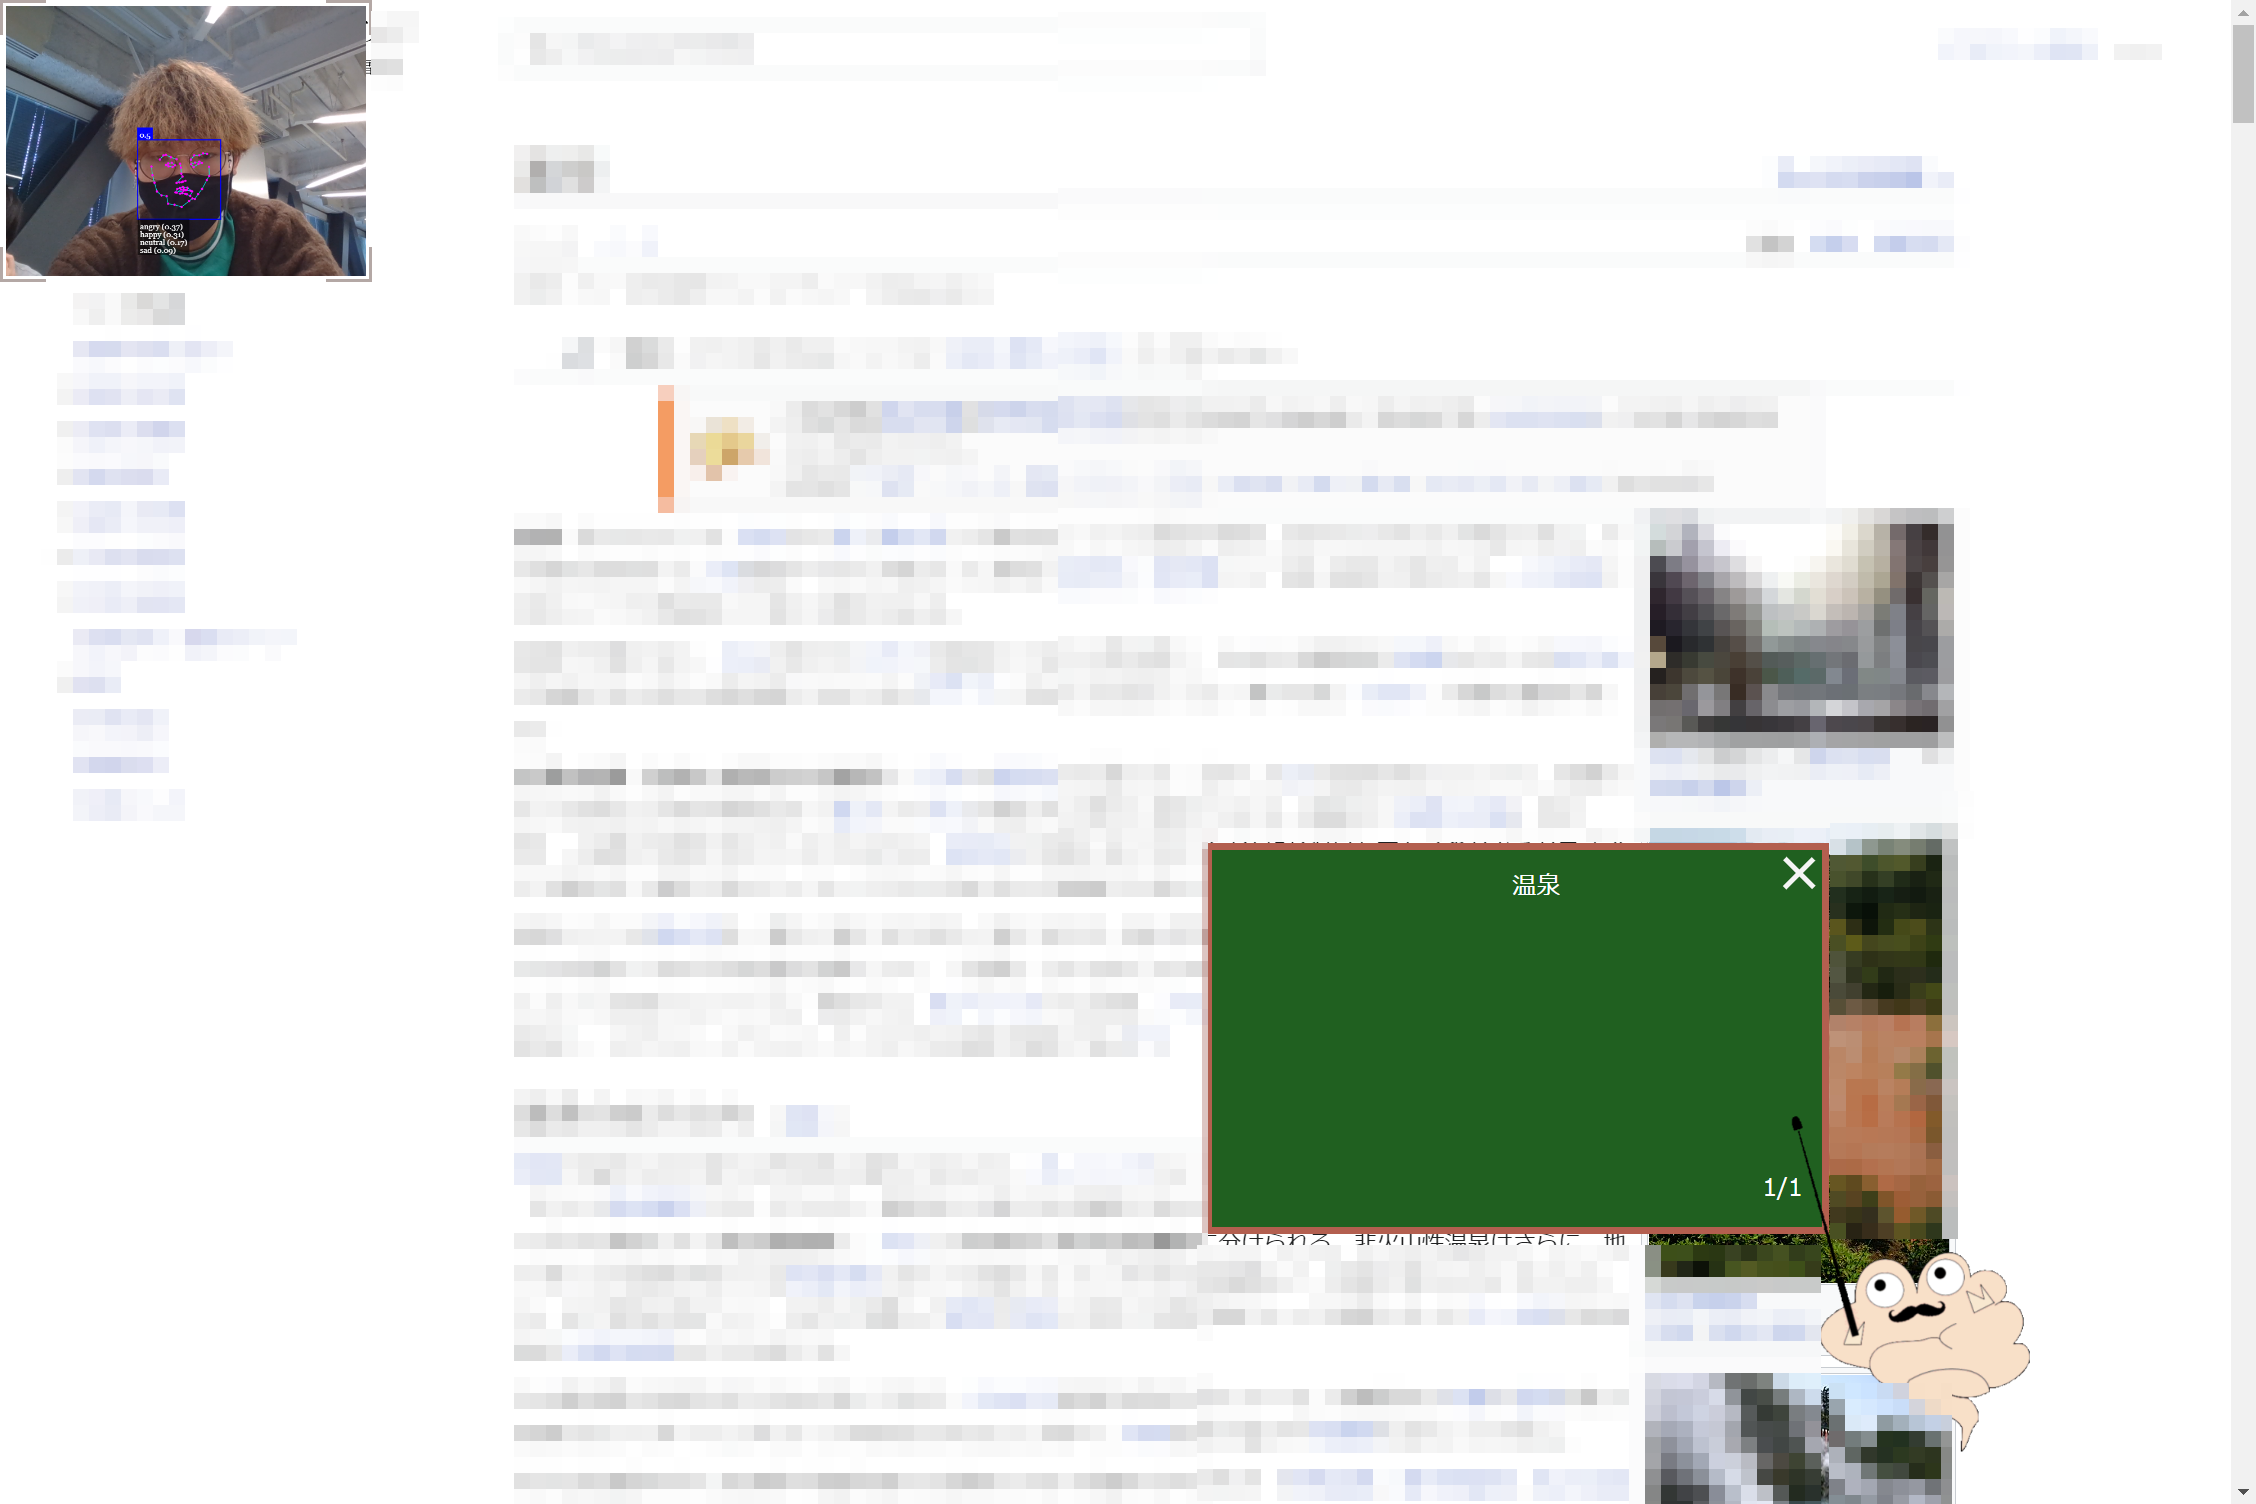
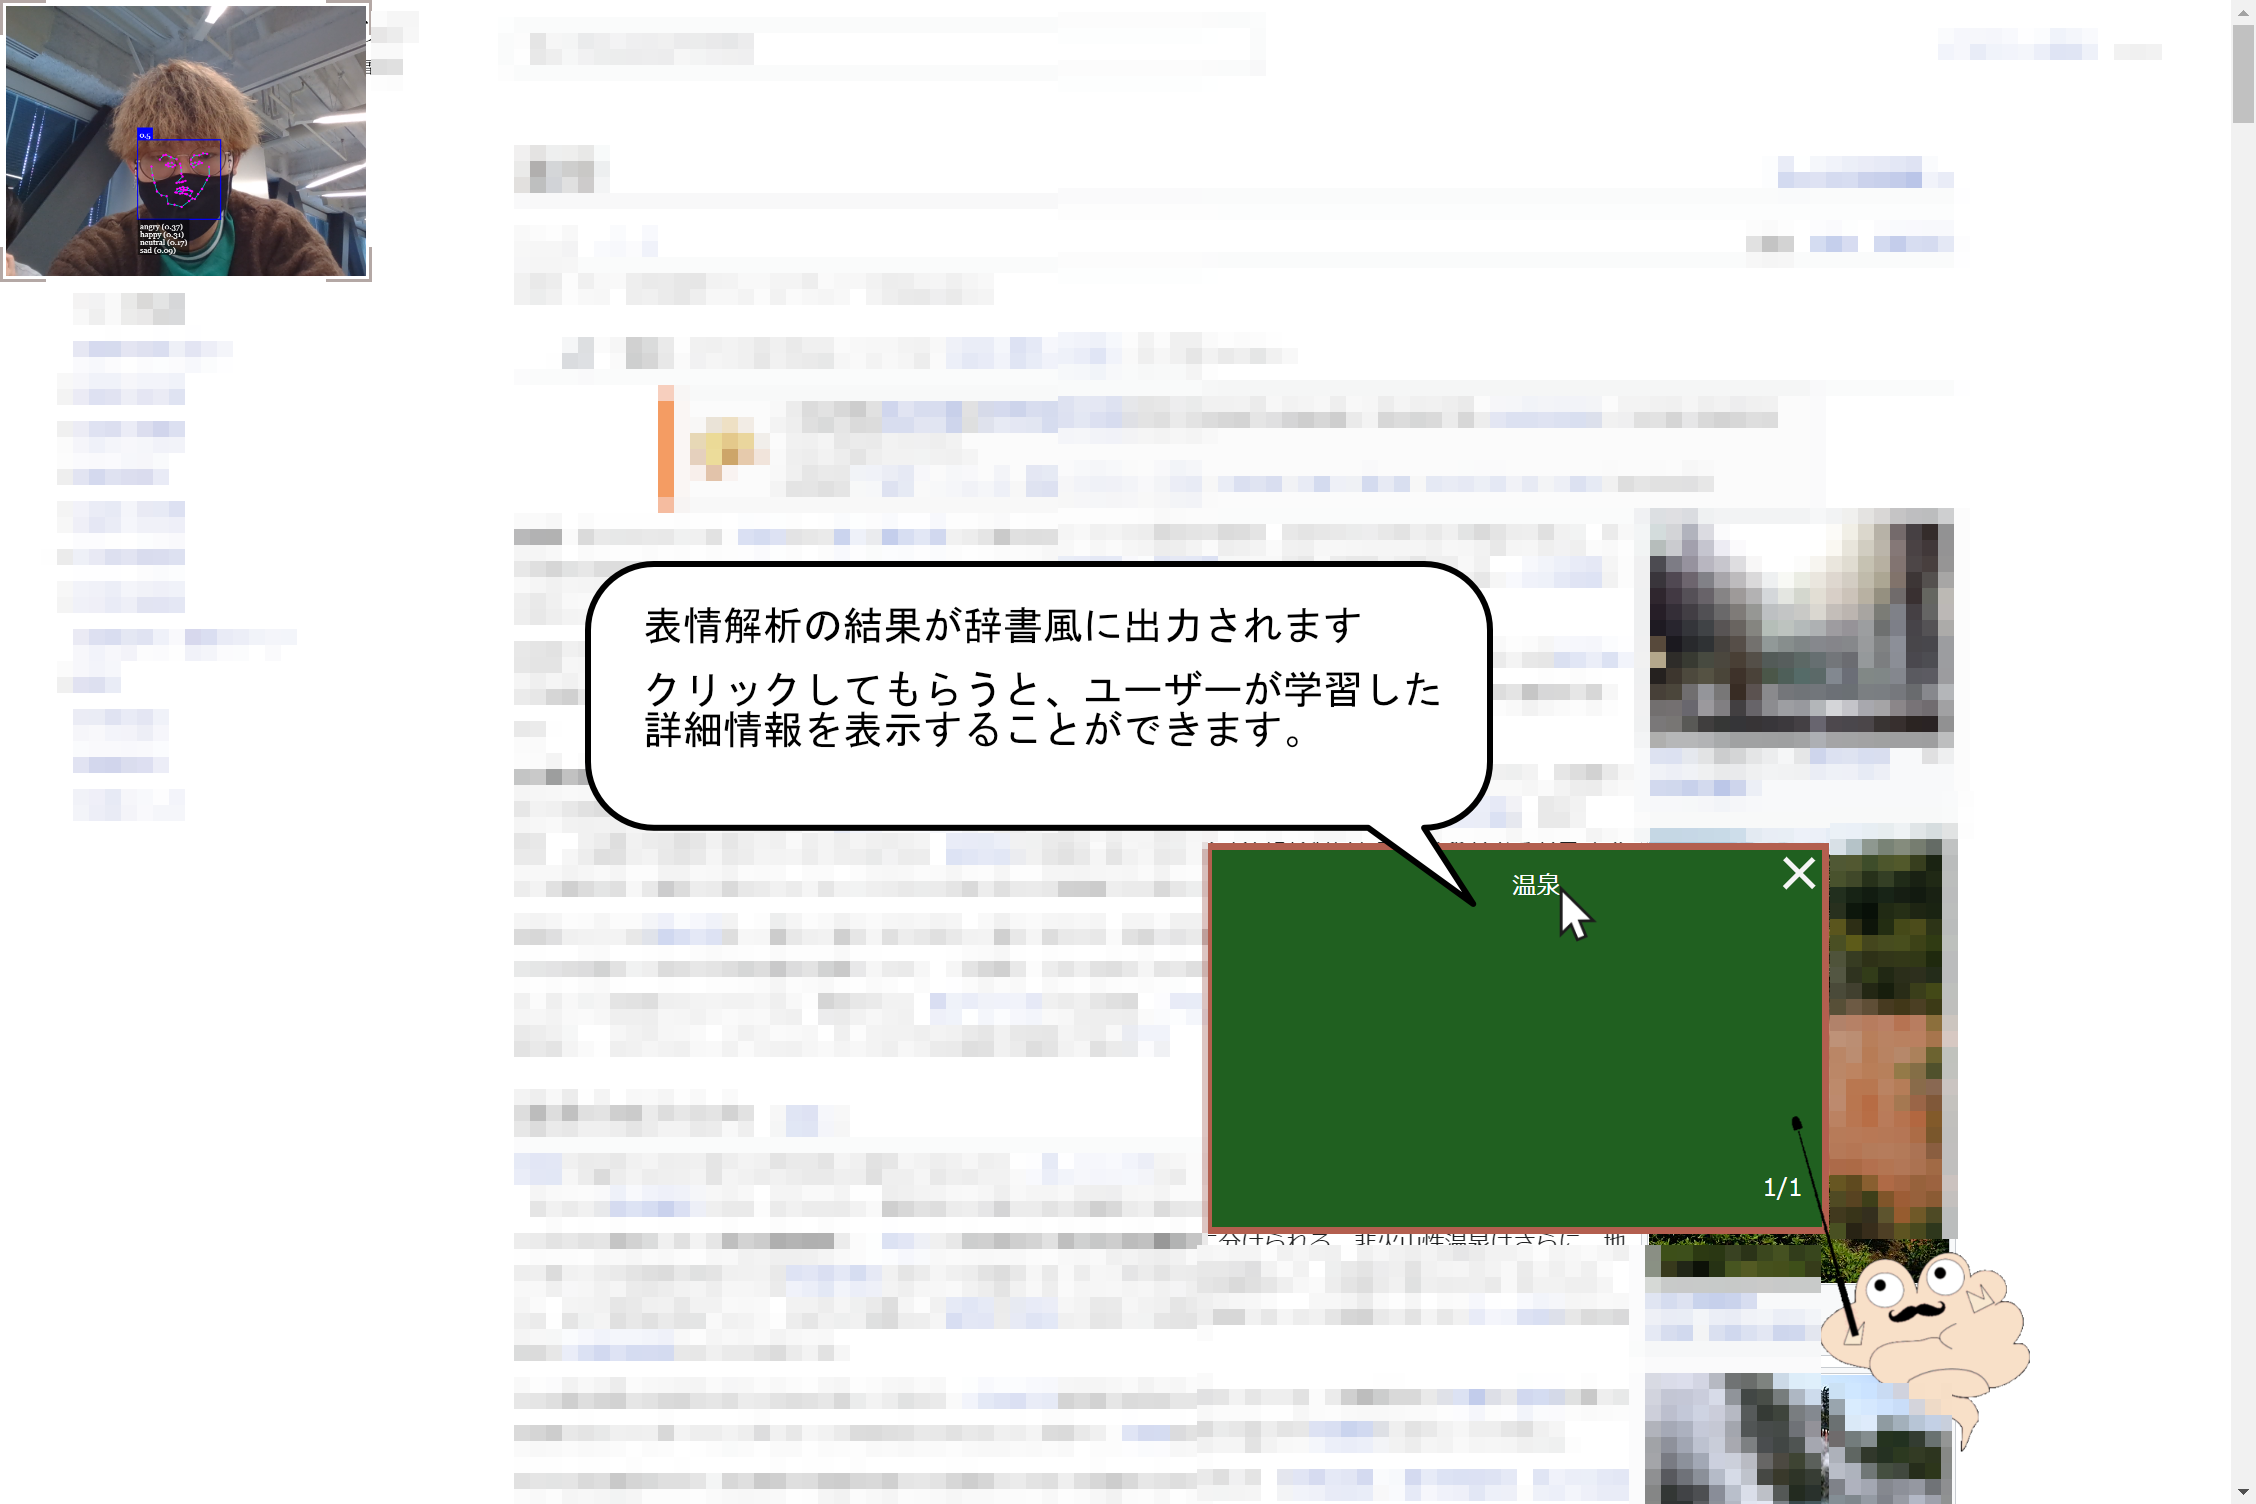
change

Changed region(s): [[0.2482, 0.375, 0.6826, 0.5938], [0.6826, 0.5938, 0.7137, 0.625]]

diff --git a/demo.html b/demo.html
@@ -11,34 +11,34 @@
 <body>
     <div class="bg-light">
     <!-- ヘッダーエリア -->
-    <nav class="navbar navbar-expand-lg navbar-light bg-light fixed-top">
-        <div class="container-fluid">
-          <a class="navbar-brand" href="index.html"><img src="./img/logo.png" alt="ロゴ" id="logImg" width="270" class="d-inline-block align-text-top"></a>
-          <button class="navbar-toggler" type="button" data-bs-toggle="collapse" data-bs-target="#navbarNav" aria-controls="navbarNav" aria-expanded="false" aria-label="Toggle navigation">
-            <span class="navbar-toggler-icon"></span>
-          </button>
-          <div class="collapse navbar-collapse justify-content-end" id="navbarNav">
-            <ul class="navbar-nav">
-              <li class="nav-item">
-                <a class="nav-link" aria-current="page" href="index.html">HOME</a>
-              </li>
-              <li class="nav-item">
-                <a class="nav-link active" href="demo.html">デモ機能の使い方</a>
-              </li>
-              <li class="nav-item me-3">
-                <a class="nav-link" href="member.html">メンバー</a>
-              </li>
-              <li class="nav-item">
-                <a class="btn btn-danger me-2" href="./zip/th457bbm.zip" download="th457bbm.zip">ダウンロード</a>
-              </li>
-            </ul>
-          </div>
+    <nav class="navbar navbar-expand-lg navbar-light bg-light header fixed-top">
+      <div class="container">
+        <a class="navbar-brand" href="index.html"><img src="./img/logo.png" alt="ロゴ" id="logImg" width="230" class="d-inline-block align-text-top logo"></a>
+        <button class="navbar-toggler" type="button" data-bs-toggle="collapse" data-bs-target="#navbarNav" aria-controls="navbarNav" aria-expanded="false" aria-label="Toggle navigation">
+          <span class="navbar-toggler-icon"></span>
+        </button>
+        <div class="collapse navbar-collapse justify-content-end" id="navbarNav">
+          <ul class="navbar-nav">
+            <li class="nav-item">
+              <a class="nav-link" aria-current="page" href="index.html">HOME</a>
+            </li>
+            <li class="nav-item">
+              <a class="nav-link active" href="demo.html">デモ機能の使い方</a>
+            </li>
+            <li class="nav-item me-3">
+              <a class="nav-link" href="member.html">メンバー</a>
+            </li>
+            <li class="nav-item">
+              <a class="btn btn-danger me-2 dwnbtn" href="./zip/th457bbm.zip" download="th457bbm.zip">ダウンロード</a>
+            </li>
+          </ul>
         </div>
-    </nav>
+      </div>
+  </nav>
     <!-- 説明エリア -->
-    <div class="container descarea">
+    <div class="container w-75 descarea bg-light">
         <h1 class="px-5 pt-5">デモ機能の使い方</h1>
-        <div class="p-5">
+        <div class="pb-5 px-3">
             <h2 class="border-bottom border-danger p-2">目次</h2>
             <div class="p-3">
                 <p><a href="#a">1. デモ機能概要</a></p>
@@ -47,16 +47,16 @@
                 <p><a href="#d">4. 実際に使用する</a></p>
             </div>
         </div>
-        <div class="p-5">
+        <div class="pb-5 px-3">
             <h2 class="border-bottom border-danger" id="a">デモ機能概要</h2>
             <p class="mt-4 mx-4 mb-2">GoogleChromeの拡張機能を用いて、顔認識とマウスの位置取得で悩んでいる内容を取得することに成功しました。</p>
         </div>
-        <div class="p-5">
+        <div class="pb-5 px-3">
             <h2 class="border-bottom border-danger" id="b">拡張機能ダウンロード</h2>
             <p class="mt-4 mx-4 mb-2">サイトの「ダウンロード」をクリックし、「th457bbm」をダウンロードしておきます。</p>
             <img src="./img/download.png" alt="" class="img-fluid border border-danger w-75 mb-2">
         </div>
-        <div class="p-5">
+        <div class="pb-5 px-3">
             <h2 class="border-bottom border-danger" id="c">拡張機能セットアップ</h2>
             <p class="mt-4 mx-4 mb-2">はじめにGoogleChromeの設定画面を開きます。</p>
             <img src="./img/top.png" alt="" class="img-fluid border border-danger w-75">
@@ -68,9 +68,11 @@
             <p class="mt-4 mx-4 mb-2">拡張機能に追加されました。</p>
             <img src="./img/ex2.png" alt="" class="img-fluid border border-danger w-75">
         </div>
-        <div class="p-5">
+        <div class="pb-5 px-3">
             <h2 class="border-bottom border-danger" id="d">実際に使用する</h2>
-            <p class="mt-4 mx-4 mb-2">wikipediaで今回のシステムを試用してみます。サイトに登場した「温泉」という言葉の意味に悩んだと仮定します。顔の表情認識で悩んでいるかを判定します。マウスの位置を見ている視点とし、悩んでいる内容を判別します。</p>
+            <p class="mt-4 mx-4 mb-2">ローディング中なので顔認証が始まるまでお待ちください</p>
+            <img src="./img/loading.png" alt="" class="img-fluid border border-danger w-75">
+            <p class="mt-4 mx-4 mb-2">wikipediaで今回のシステムを試用してみます。サイトに登場した「温泉」という言葉の意味に悩んだと仮定します。左上の表情認識で悩んでいるかを判定します。マウスの位置を見ている視点とし文章に近づけてください、その状態で顔を傾けたり眉間に皺を寄せると悩んでいる内容を判別します。</p>
             <img src="./img/use.png" alt="" class="img-fluid border border-danger w-75">
             <p class="mt-4 mx-4 mb-2">システムが学習した内容から検索候補を表示します。</p>
             <img src="./img/cand.png" alt="" class="img-fluid border border-danger w-75">

diff --git a/member.html b/member.html
@@ -11,9 +11,9 @@
 <body>
     <div class="bg-light">
     <!-- ヘッダーエリア -->
-    <nav class="navbar navbar-expand-lg navbar-light bg-light fixed-top">
-        <div class="container-fluid">
-          <a class="navbar-brand" href="index.html"><img src="./img/logo.png" alt="ロゴ" id="logImg" width="270" class="d-inline-block align-text-top"></a>
+    <nav class="navbar navbar-expand-lg navbar-light bg-light header fixed-top">
+        <div class="container">
+          <a class="navbar-brand" href="index.html"><img src="./img/logo.png" alt="ロゴ" id="logImg" width="230" class="d-inline-block align-text-top logo"></a>
           <button class="navbar-toggler" type="button" data-bs-toggle="collapse" data-bs-target="#navbarNav" aria-controls="navbarNav" aria-expanded="false" aria-label="Toggle navigation">
             <span class="navbar-toggler-icon"></span>
           </button>
@@ -29,13 +29,13 @@
                 <a class="nav-link active" href="member.html">メンバー</a>
               </li>
               <li class="nav-item">
-                <a class="btn btn-danger me-2" href="./zip/th457bbm.zip" download="th457bbm.zip">ダウンロード</a>
+                <a class="btn btn-danger me-2 dwnbtn" href="./zip/th457bbm.zip" download="th457bbm.zip">ダウンロード</a>
               </li>
             </ul>
           </div>
         </div>
     </nav>
-    <div class="container">
+    <div class="container memarea">
         <h1 class="px-5 pt-5 pb-2 title border-bottom border-danger">メンバー</h1>
         <h2 class="px-5 pt-2">システム開発</h2>
         <div class="row px-5 my-2">
@@ -81,7 +81,7 @@
                 <h3>秋山直輝</h3>
                 <p class="text-danger">データモデル・WEB開発</p>
                 <p class="text-black-50">IH14A</p>
-                <p>頑張りました＾＾</p>
+                <p>学生生活最後の作品なので頑張りました＾＾</p>
             </div>
         </div>
         <div class="row px-5 my-2">
@@ -112,7 +112,7 @@
             </div>
         </div>
         <div class="row px-5 my-2">
-            <div class="col-3"><img src="./img/chara1_onColor.png" alt="" class="img-thumbnail" width="200"></div>
+            <div class="col-3"><img src="./img/tomori.jpg" alt="" class="img-thumbnail" width="200"></div>
             <div class="col-9 pt-3">
                 <h3>友利譲司</h3>
                 <p class="text-danger">動画作成</p>

diff --git a/css/demo.css b/css/demo.css
@@ -1,15 +1,14 @@
-.container {
-    color: #be3455;
-}
-.container img {
-    min-width: 400px;
-}
 .btn-danger:hover {
     background-color: white !important;
     color: #dc3545 !important;
 }
 .descarea {
+    color: #be3455;
     padding-top: 7rem;
+    min-width: 340px;
+}
+.descarea img {
+    min-width: 300px;
 }
 #a {
     padding-top: 7rem;

diff --git a/css/member.css b/css/member.css
@@ -2,3 +2,6 @@
     background-color: white !important;
     color: #dc3545 !important;
 }
+.memarea {
+    padding-top: 7rem;
+}
